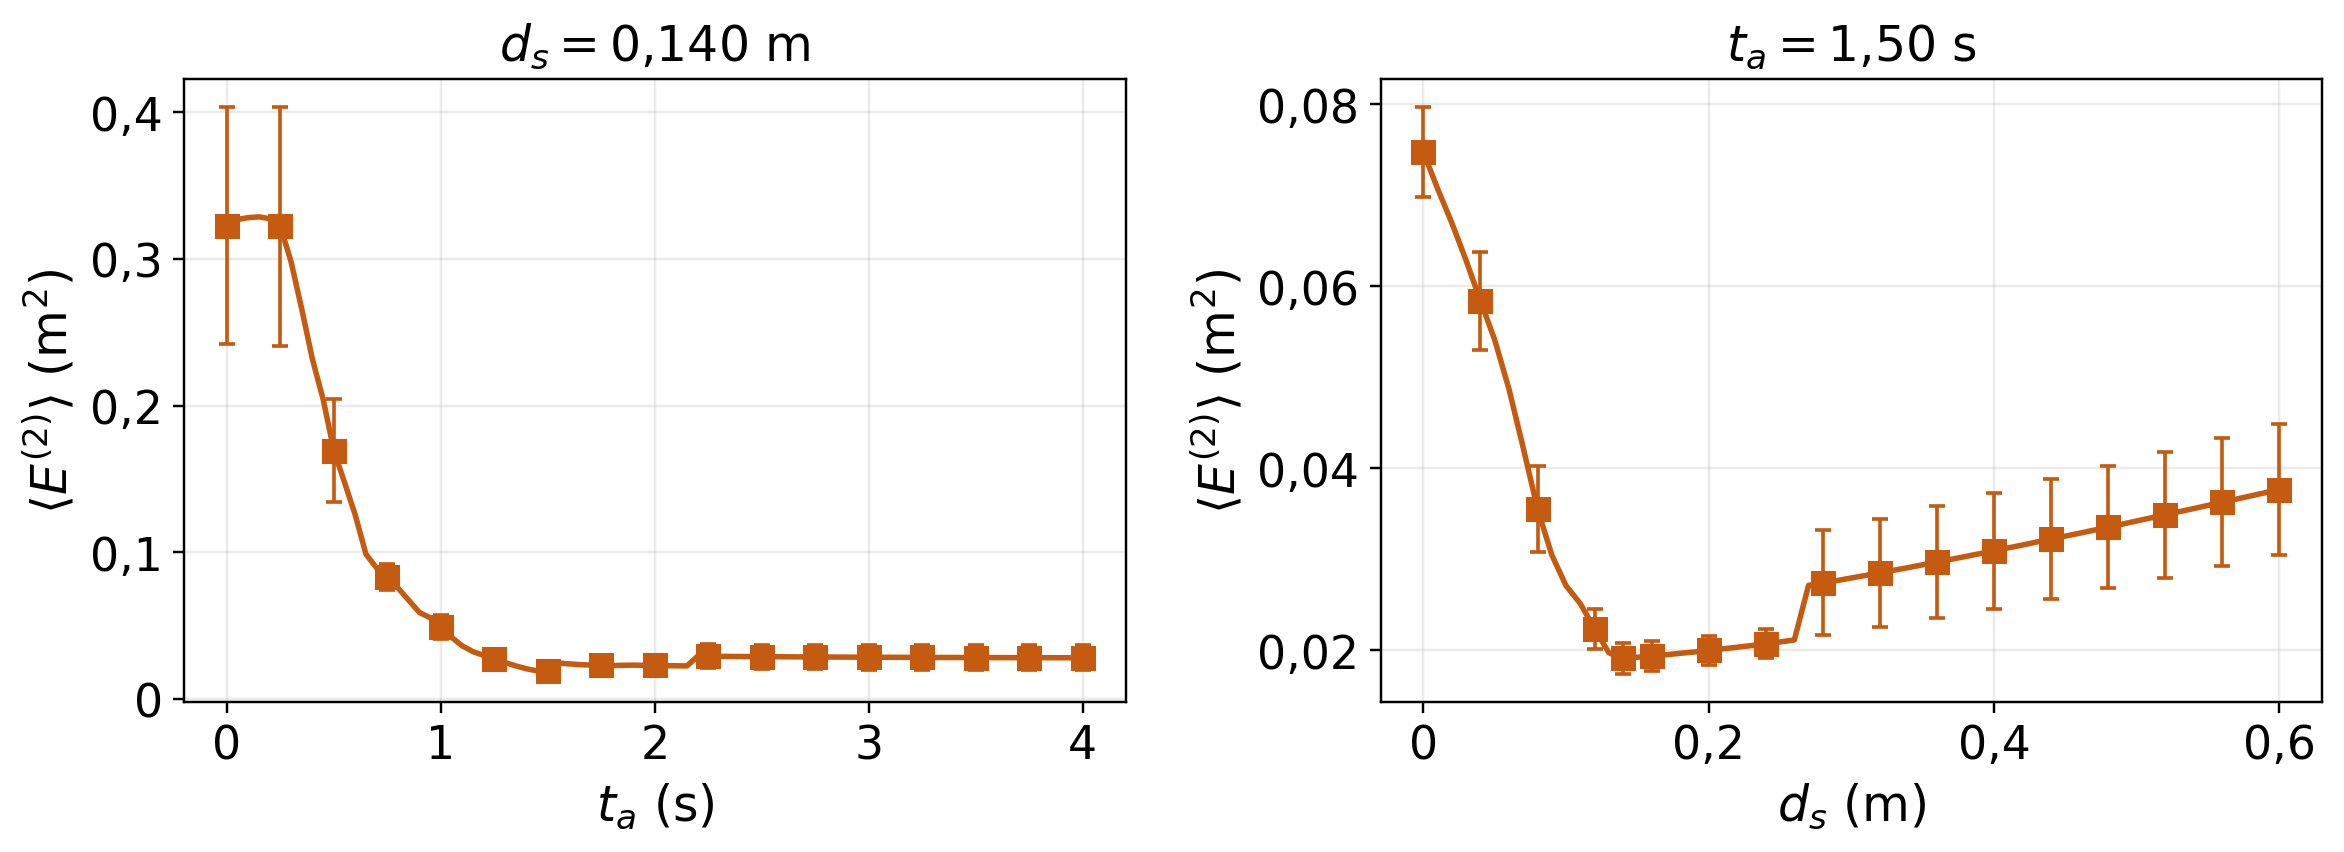
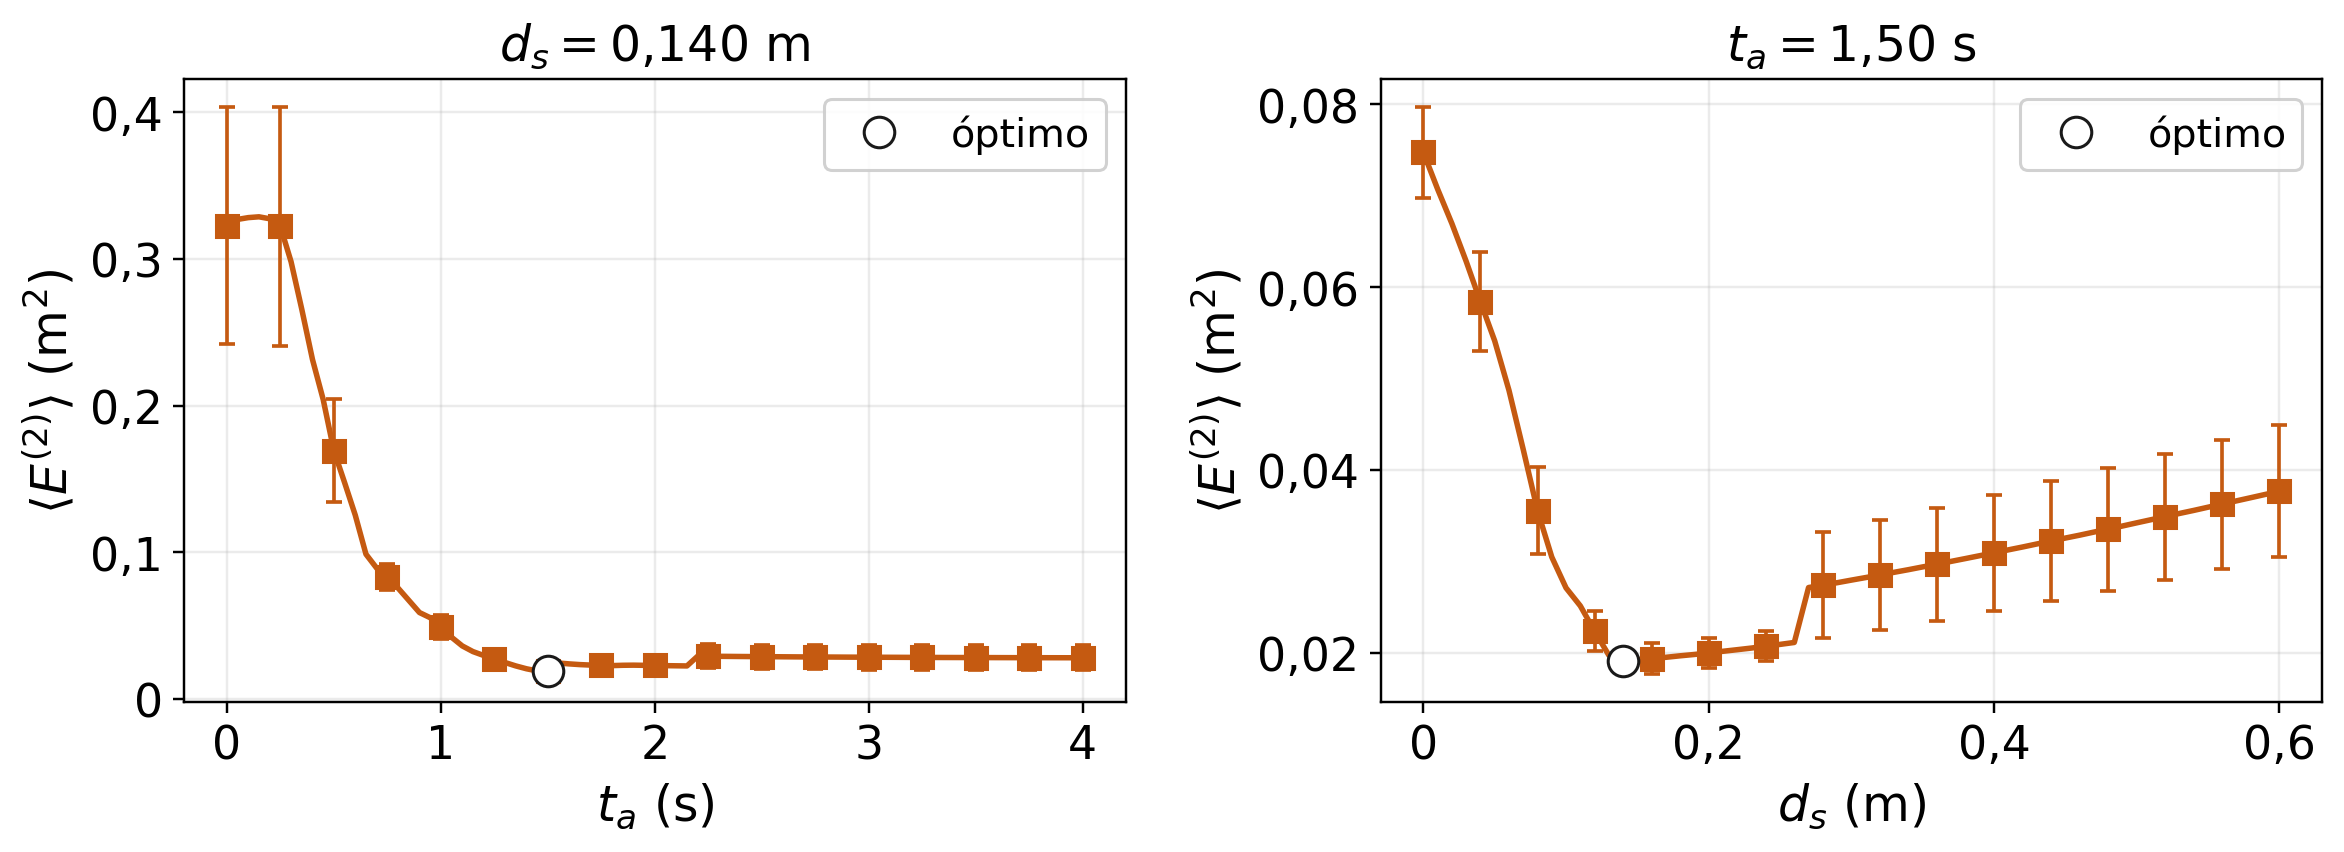
Cortes: el óptimo como punto blanco con leyenda, igual que en el mapa

diff --git a/visualization/population.py b/visualization/population.py
@@ -73,9 +73,8 @@ def cuts(p1, p2, event_error, region, metric, figures, style):
 
     La curva va entera y las barras cada pocos puntos: con 81 y 61 valores de
     grilla, una barra por punto tapa la curva. La barra es el error estandar de
-    la media entre los M eventos. El optimo no lleva linea vertical ni franja
-    (lo pidio el grupo: el valor va escrito en la diapositiva); solo se le
-    agrega su punto cuando no coincide con ninguno de los dibujados.
+    la media entre los M eventos. El optimo no lleva linea vertical ni franja:
+    se marca con un punto blanco, igual que en el mapa, y figura en la leyenda.
     """
     common.use_style(style)
     mean, sem = common.population(event_error)
@@ -90,14 +89,13 @@ def cuts(p1, p2, event_error, region, metric, figures, style):
         axes.plot(values, curve, color=color, linewidth=1.8)
         axes.errorbar(values[::every], curve[::every], yerr=bars[::every], color=color,
                       marker=marker, **common.ERRORBAR)
-        # Sin linea ni franja en el optimo (el valor se escribe a mano en la
-        # diapositiva). Si el optimo no cae en uno de los puntos dibujados ni
-        # pegado a uno, se agrega su punto, con su barra, para que se vea.
+        # Sin linea ni franja: el optimo va como en el mapa, un punto blanco
+        # con borde, y con su entrada en la leyenda.
         index = int(np.argmin(np.abs(values - best)))
-        nearest = min(abs(index - k) for k in range(0, len(values), every))
-        if nearest > 1:
-            axes.errorbar([values[index]], [curve[index]], yerr=[bars[index]], color=color,
-                          marker=marker, **common.ERRORBAR)
+        axes.plot([values[index]], [curve[index]], linestyle="none", marker="o",
+                  markersize=10, markerfacecolor="white", markeredgecolor="#1a1a1a",
+                  markeredgewidth=1.0, zorder=6, label="óptimo")
+        axes.legend(loc="upper right", fontsize=plt.rcParams["legend.fontsize"])
         axes.set_xlabel(label)
         axes.set_ylabel(common.METRIC_AVERAGE[metric])
     axesrow[0].set_title(f"$d_s = {common.math_decimal(p2[j], 3)}$ m",

diff --git a/report/presentacion.tex b/report/presentacion.tex
@@ -671,7 +671,7 @@
         \colvin{%
             \item $d_s$ sí tiene un mínimo claro en \SI{0.13}{\meter} y sube
                   después: es el parámetro que fija por dónde se pasa.
-            \cond{barra: error estándar de la media entre los 19 eventos; cada corte pasa por el óptimo, $(\SI{2.15}{\second};\ \SI{0.13}{\meter})$}}
+            \cond{barra: error estándar de la media entre los 19 eventos; punto blanco: el óptimo, $(\SI{2.15}{\second};\ \SI{0.13}{\meter})$}}
     }
 \end{frame}
 
@@ -701,7 +701,7 @@
             \item Los escalones de \mEdos{} en $t_a \approx 1{,}5$ y
                   \SI{2.2}{\second} son \textbf{dos eventos} (17 y 16) en los
                   que el lado por el que elude el modelo cambia con $t_a$.
-            \cond{mismas 19 realizaciones; cada corte pasa por el óptimo, $(\SI{1.50}{\second};\ \SI{0.14}{\meter})$}}
+            \cond{mismas 19 realizaciones; punto blanco: el óptimo, $(\SI{1.50}{\second};\ \SI{0.14}{\meter})$}}
     }
 \end{frame}
 

diff --git a/README.md b/README.md
@@ -396,7 +396,7 @@ informó el motor, para que el camino corto esté verificado contra el largo.
 | `trajectory.py` | a | por evento: trayectorias medidas y simuladas superpuestas, el observable primario `e(t)` de las dos métricas con su promedio temporal, y la distancia entre los dos peatones con `2r` y `D` marcados |
 | `animate.py` | a | animación del evento (un cuadro por instante medido: a 15 cuadros por segundo corre en tiempo real) y cuadro fijo con `--cruce`, congelado en el último instante en conflicto antes del cruce simulado |
 | `mosaico.py` | a | los 19 eventos animados a la vez, un panel por evento: la verificación a ojo de que cada ventana es el cruce y no la fila |
-| `population.py` | b | mapa de `<E>(t_a,d_s)` (escala logarítmica, con el óptimo marcado y nada más); los dos cortes por el óptimo con barras de error (sin línea ni franja en el óptimo; se agrega su punto si no coincide con uno dibujado); el barrido largo de `t_a` |
+| `population.py` | b | mapa de `<E>(t_a,d_s)` (escala logarítmica, con el óptimo marcado y nada más); los dos cortes por el óptimo con barras de error (el óptimo, un punto blanco como en el mapa); el barrido largo de `t_a` |
 | `individual.py` | c | histograma de los 19 óptimos individuales de cada parámetro con una línea vertical en el óptimo global, y el error de cada evento con los parámetros poblacionales contra los propios |
 | `pares.py` | c opcional | histograma de los 38 óptimos por peatón con la línea del óptimo global, y el error de cada evento con uno, dos y cuatro juegos de parámetros |
 | `residual.py` | c | de dónde viene el error que queda: `E(1)_m` abierto en la componente a lo largo del camino nominal (ritmo) y la perpendicular (forma), y el desvío lateral en el cruce medido contra simulado, que dice si el modelo eludió por el mismo lado |
@@ -472,10 +472,9 @@ Los dos óptimos coinciden en `d_s` y difieren en `t_a`. Usar el óptimo de la
 métrica 2 cuesta un 1,9 % de `<E(1)>`; al revés, un 18 % de `<E(2)>`.
 
 La figura de los cortes no lleva línea vertical ni franja en el óptimo (el
-valor se escribe en la diapositiva): son la curva y sus barras de error. Sólo
-se agrega el punto del óptimo cuando no coincide con ninguno de los dibujados
-ni queda pegado a uno (el de `t_a = 2,15 s` con la métrica 1 y el de
-`d_s = 0,14 m` con la 2). Los `d_s` que empatan con el óptimo según la
+valor se escribe en la diapositiva): son la curva, sus barras de error y el
+óptimo marcado con un punto blanco, igual que en el mapa, con su entrada en la
+leyenda. Los `d_s` que empatan con el óptimo según la
 diferencia pareada se informan por consola.
 
 `t_a` queda determinado **sólo por abajo**: `<E(1)>` cae de 0,87 a 0,07 m²
